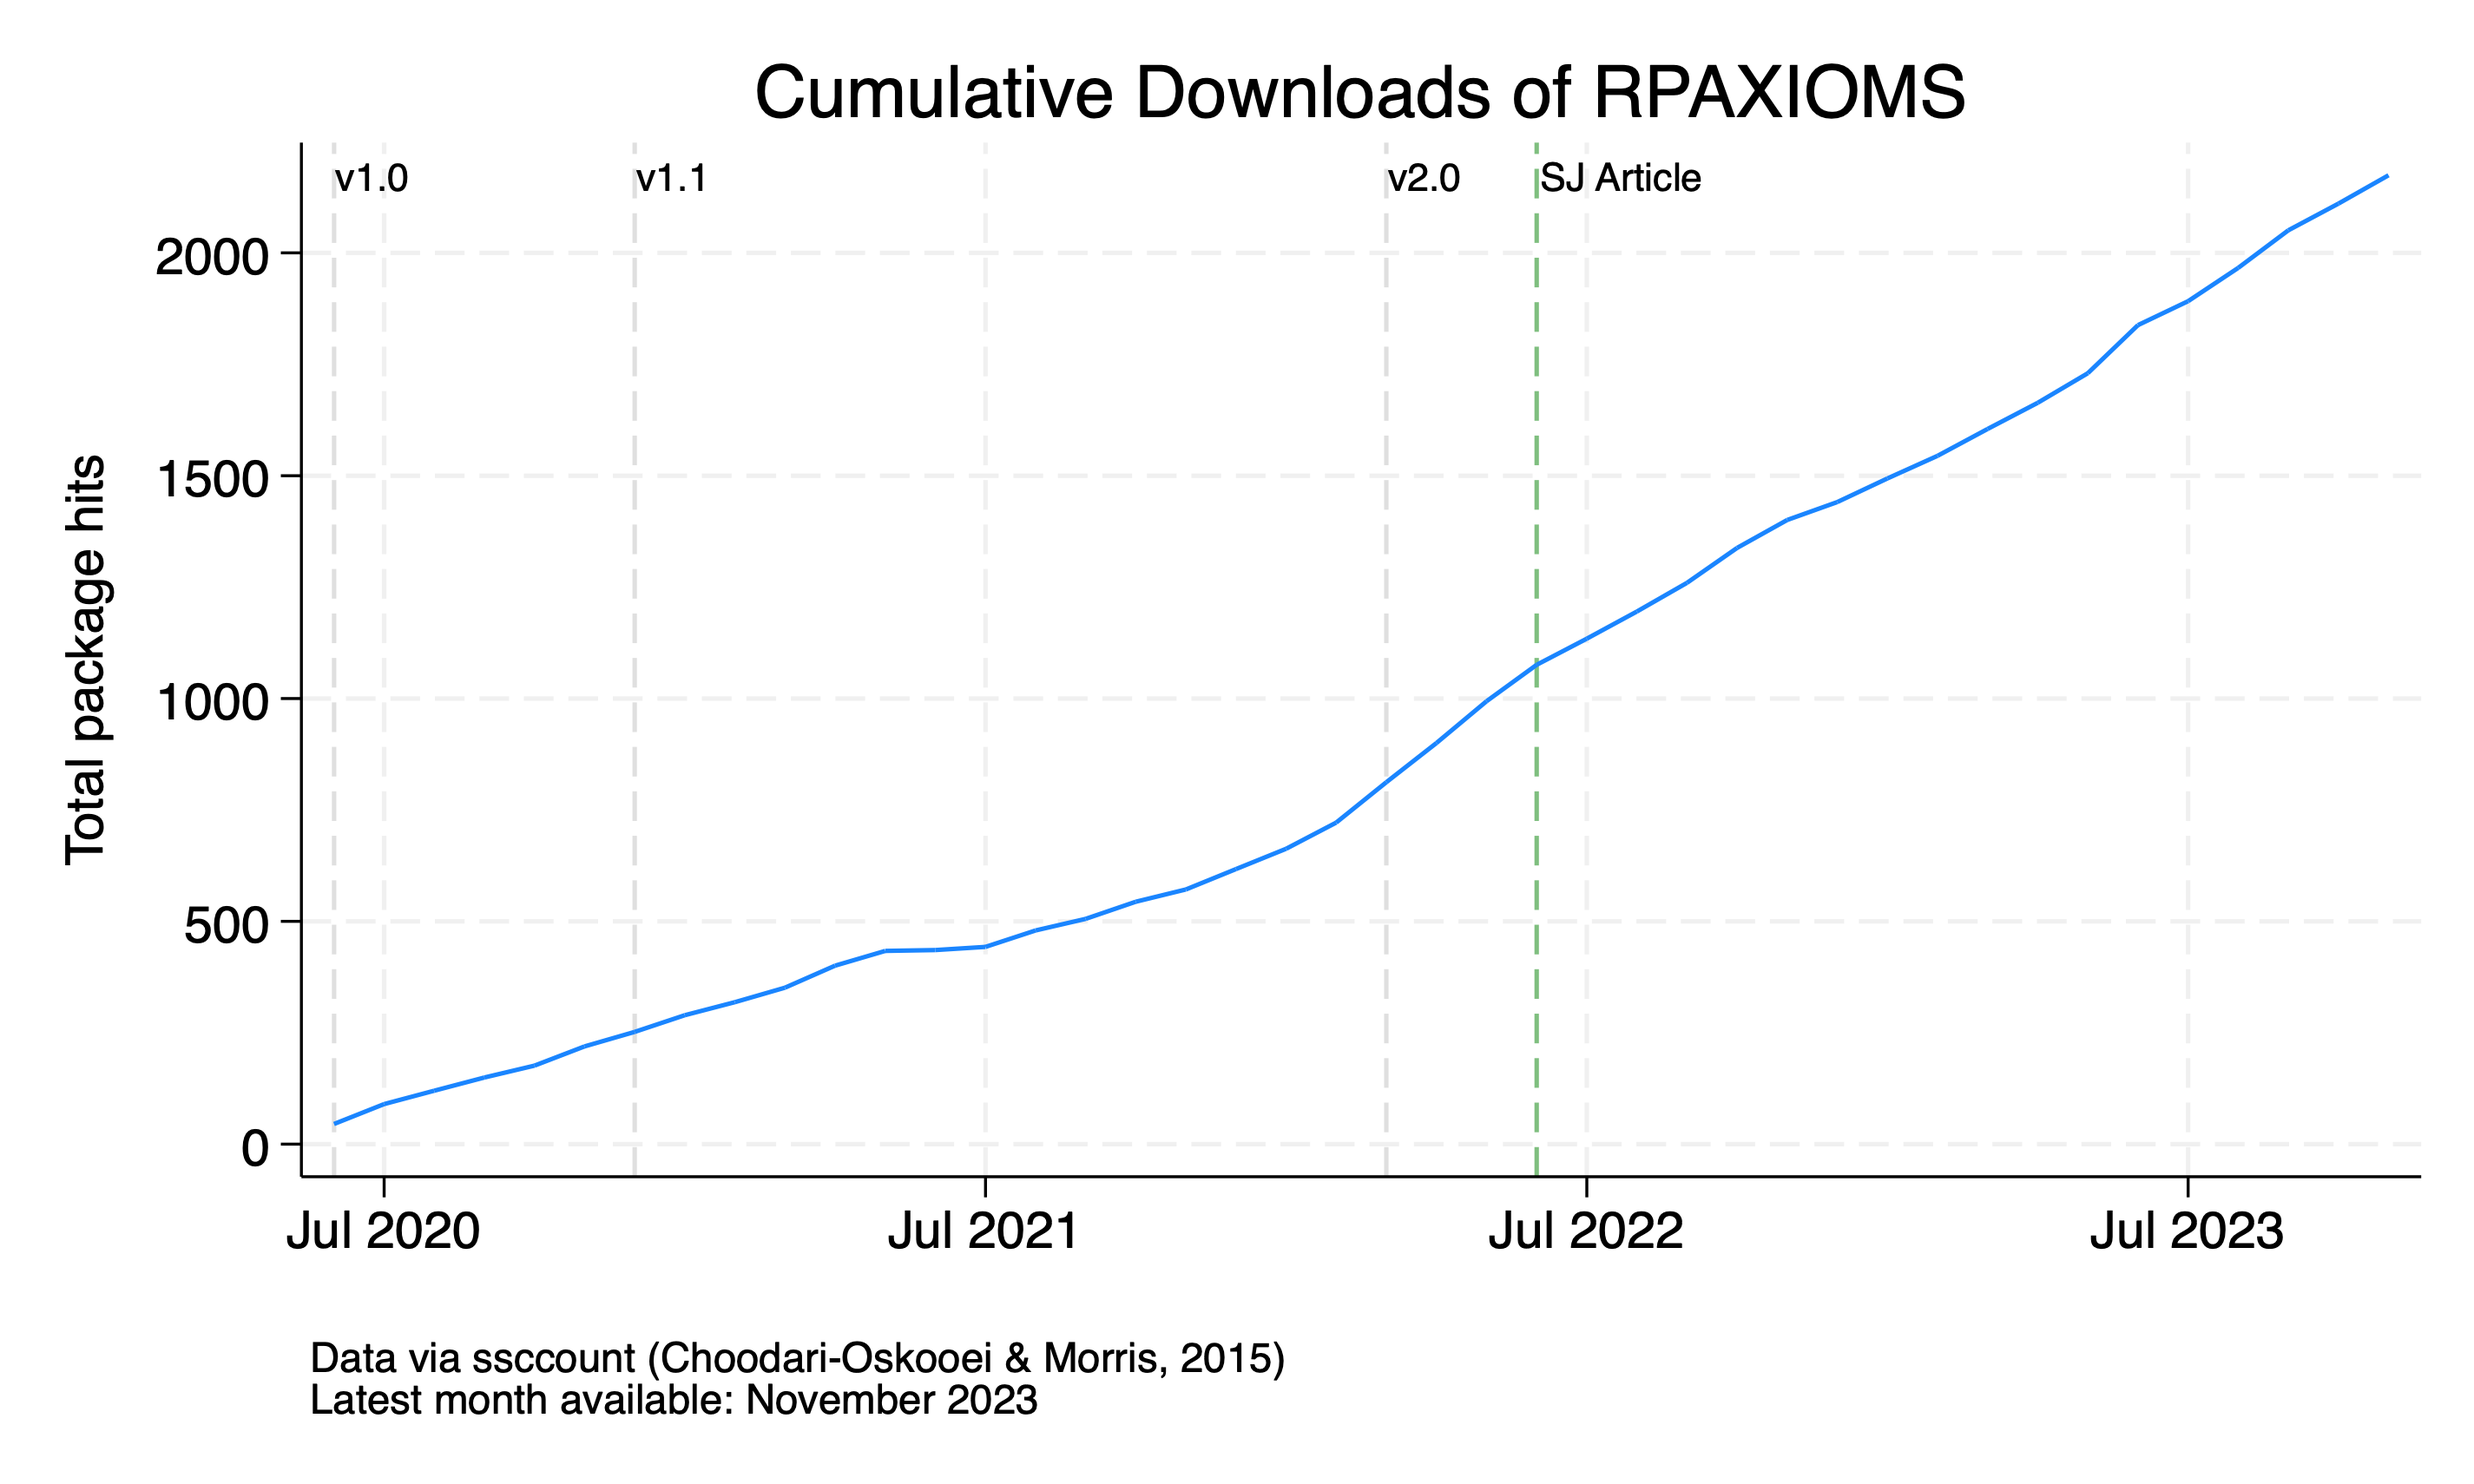
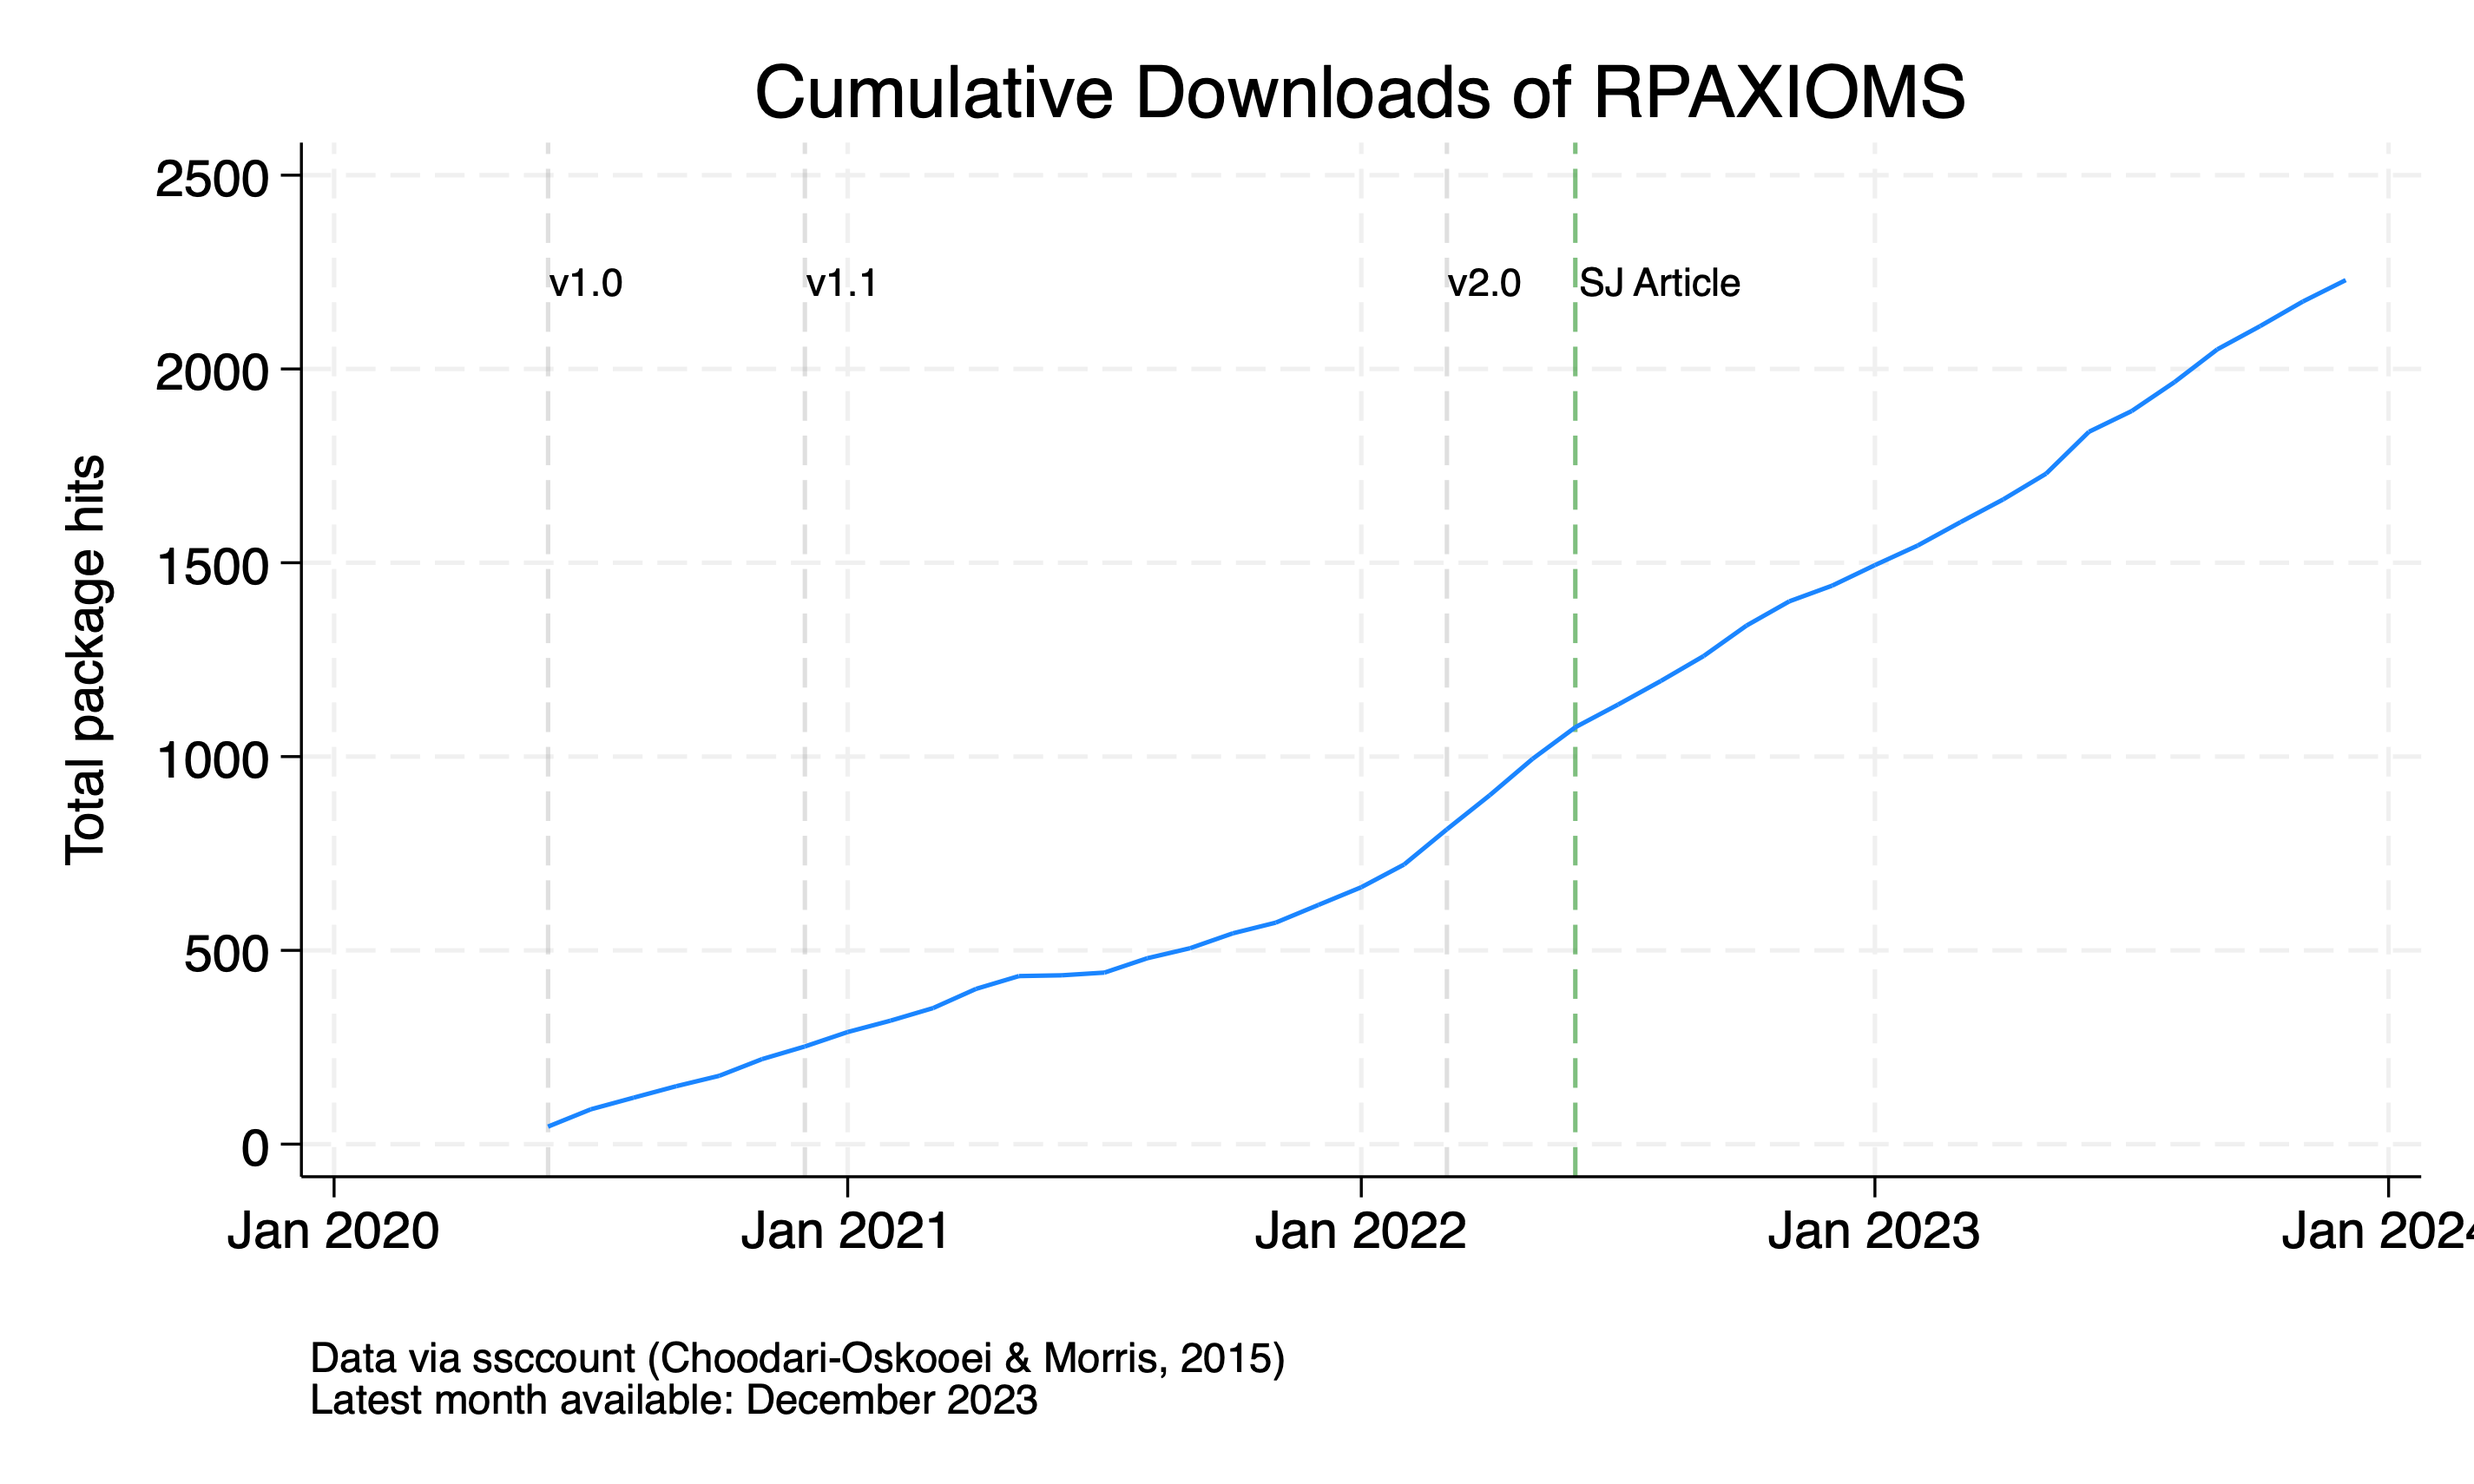
update npkghits for rpaxioms and hmindex

diff --git a/_posts/2022-07-01-rpaxioms.md b/_posts/2022-07-01-rpaxioms.md
@@ -17,7 +17,7 @@ household-level aggregate consumption data.
 ## Citation
 Demetry, M., Hjertstrand, P. and Polisson, M., 2022. Testing axioms of revealed preference in Stata. <i>The Stata Journal</i>, 22(2), pp.319-343.
 
-## Total downloads: 2,174
+## Total downloads: 2,229
 <img src="/assets/img/rpaxioms_cumulative_hits.png" alt="number of downloads" width="100%"/>
 
 <details>

diff --git a/_posts/2022-12-01-hmindex.md b/_posts/2022-12-01-hmindex.md
@@ -13,7 +13,7 @@ note introduces the _Stata_ command __hmindex__, which calculates the Houtman-Ma
 prices and observed choices of a consumer. The command is illustrated with an empirical application.
 
 
-## Total downloads: 961
+## Total downloads: 1028
 <img src="/assets/img/hmindex_cumulative_hits.png" alt="number of downloads" width="100%"/>
 
 
